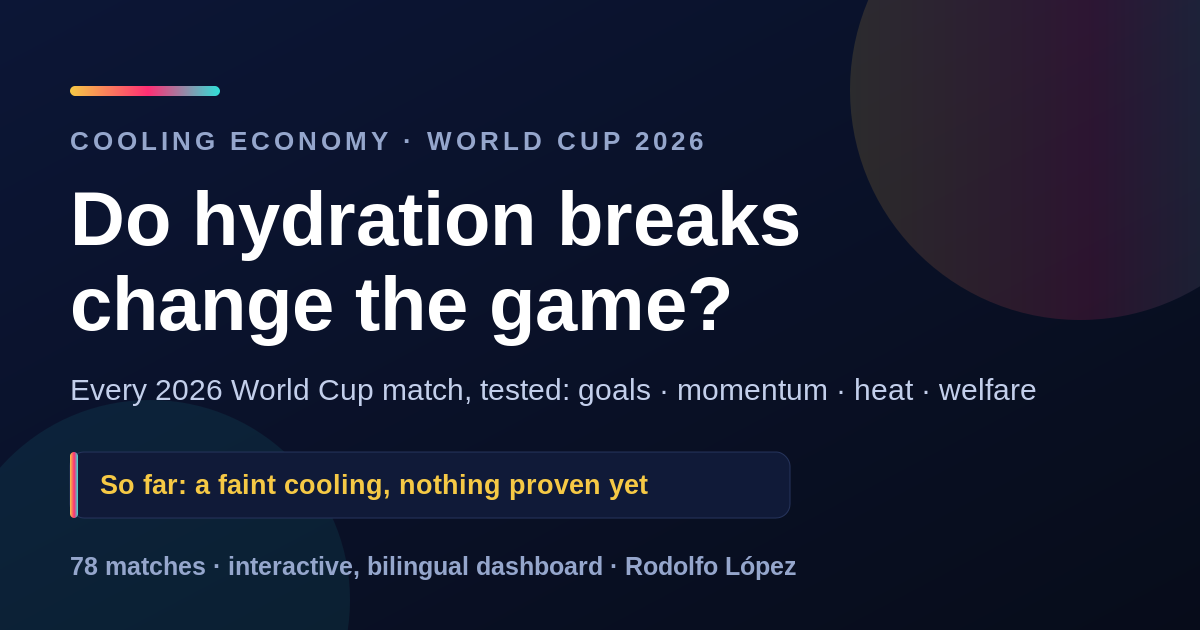
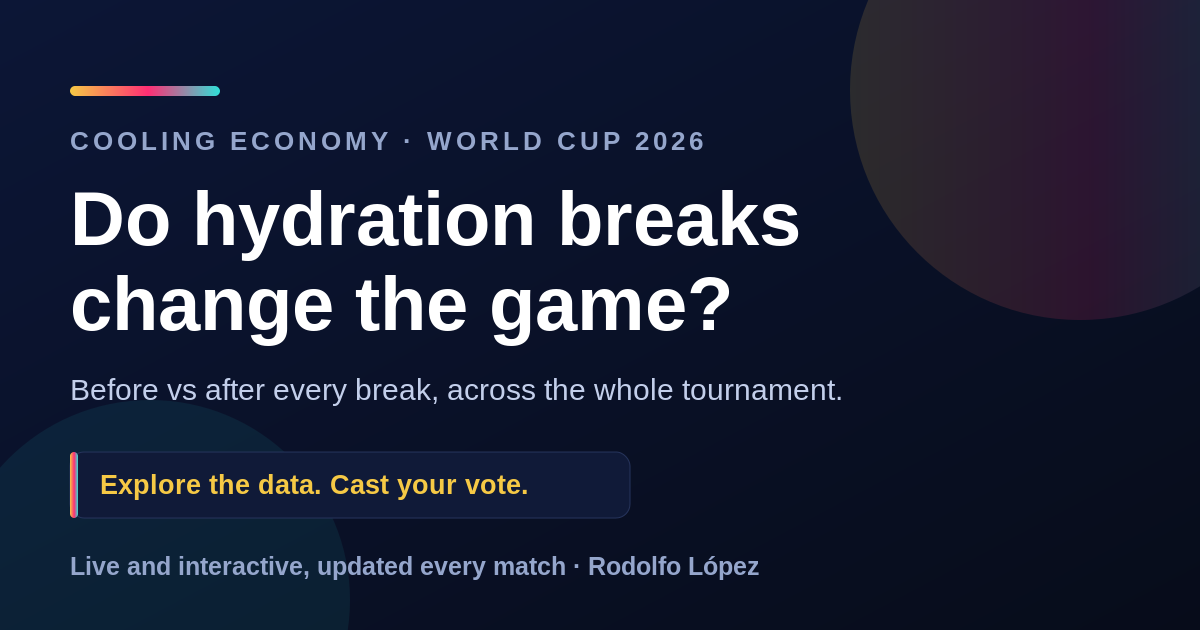
Spoiler-free social card

diff --git a/make_card.py b/make_card.py
@@ -1,0 +1,23 @@
+import cairosvg
+W,H=1200,630
+svg=f'''<svg xmlns="http://www.w3.org/2000/svg" width="{W}" height="{H}" viewBox="0 0 {W} {H}" font-family="Arial, Helvetica, sans-serif">
+<defs>
+ <linearGradient id="bg" x1="0" y1="0" x2="1" y2="1"><stop offset="0" stop-color="#0c1636"/><stop offset="1" stop-color="#070c1a"/></linearGradient>
+ <linearGradient id="grad" x1="0" y1="0" x2="1" y2="0"><stop offset="0" stop-color="#f6c945"/><stop offset="0.52" stop-color="#ff2e74"/><stop offset="1" stop-color="#2fe0d8"/></linearGradient>
+</defs>
+<rect width="{W}" height="{H}" fill="url(#bg)"/>
+<circle cx="1080" cy="90" r="230" fill="url(#grad)" opacity="0.14"/>
+<circle cx="150" cy="600" r="200" fill="#2fe0d8" opacity="0.08"/>
+<rect x="70" y="86" width="150" height="10" rx="5" fill="url(#grad)"/>
+<text x="70" y="150" fill="#95a6cc" font-size="26" font-weight="700" letter-spacing="4">COOLING ECONOMY &#183; WORLD CUP 2026</text>
+<text x="70" y="245" fill="#ffffff" font-size="76" font-weight="800">Do hydration breaks</text>
+<text x="70" y="330" fill="#ffffff" font-size="76" font-weight="800">change the game?</text>
+<text x="70" y="400" fill="#c3cfeb" font-size="30" font-weight="500">Before vs after every break, across the whole tournament.</text>
+<rect x="70" y="452" width="560" height="66" rx="14" fill="#101a38" stroke="#26345c"/>
+<rect x="70" y="452" width="8" height="66" rx="4" fill="url(#grad)"/>
+<text x="100" y="494" fill="#f6c945" font-size="27" font-weight="800">Explore the data. Cast your vote.</text>
+<text x="70" y="575" fill="#95a6cc" font-size="25" font-weight="600">Live and interactive, updated every match &#183; Rodolfo López</text>
+</svg>'''
+open("card.svg","w").write(svg)
+cairosvg.svg2png(bytestring=svg.encode(),write_to="cooling_economy_card.png",output_width=1200,output_height=630)
+print("card png written")